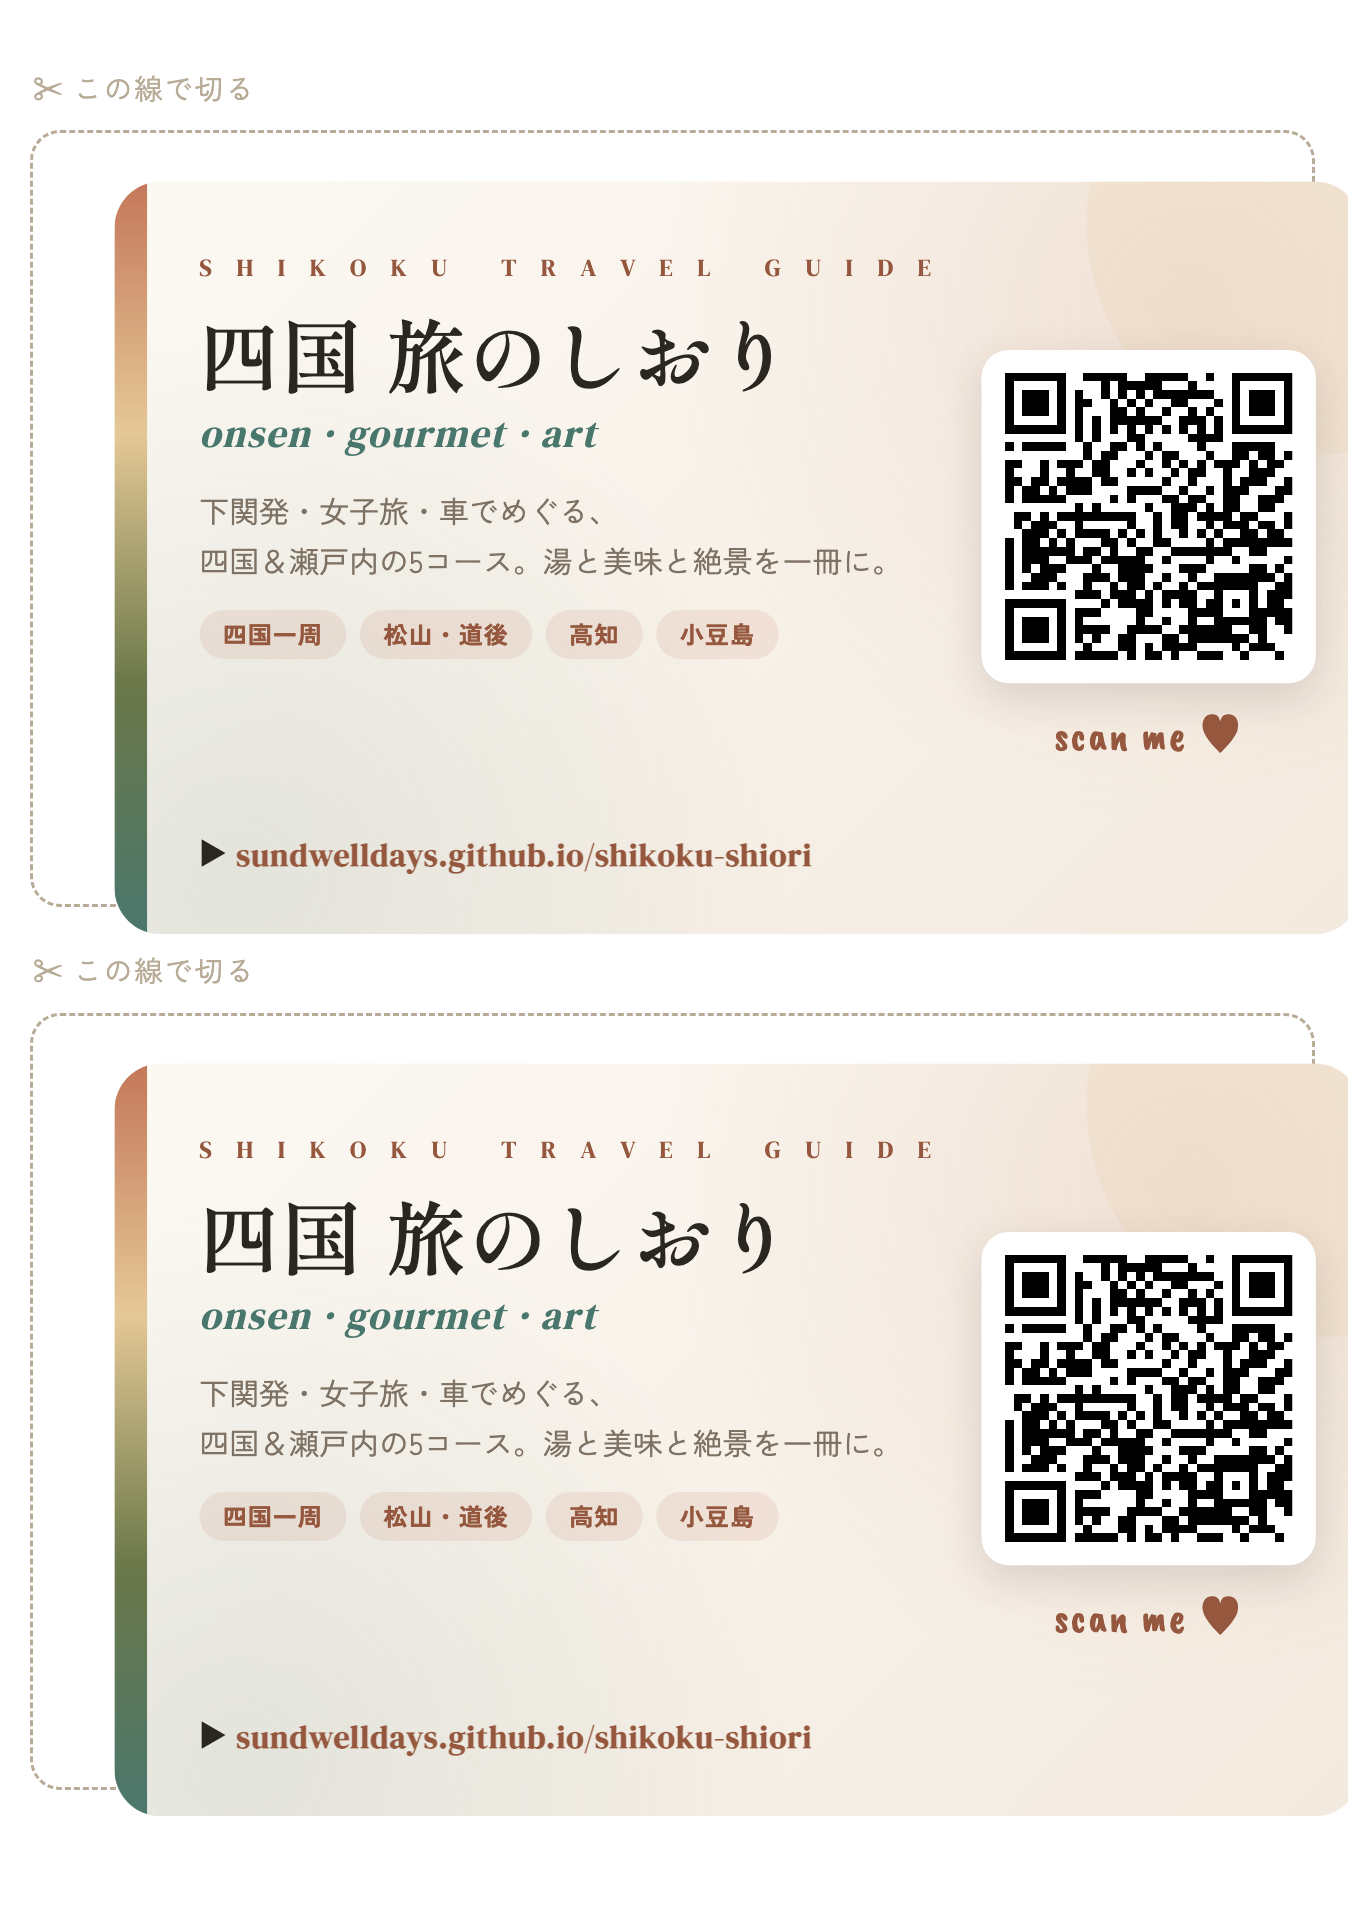
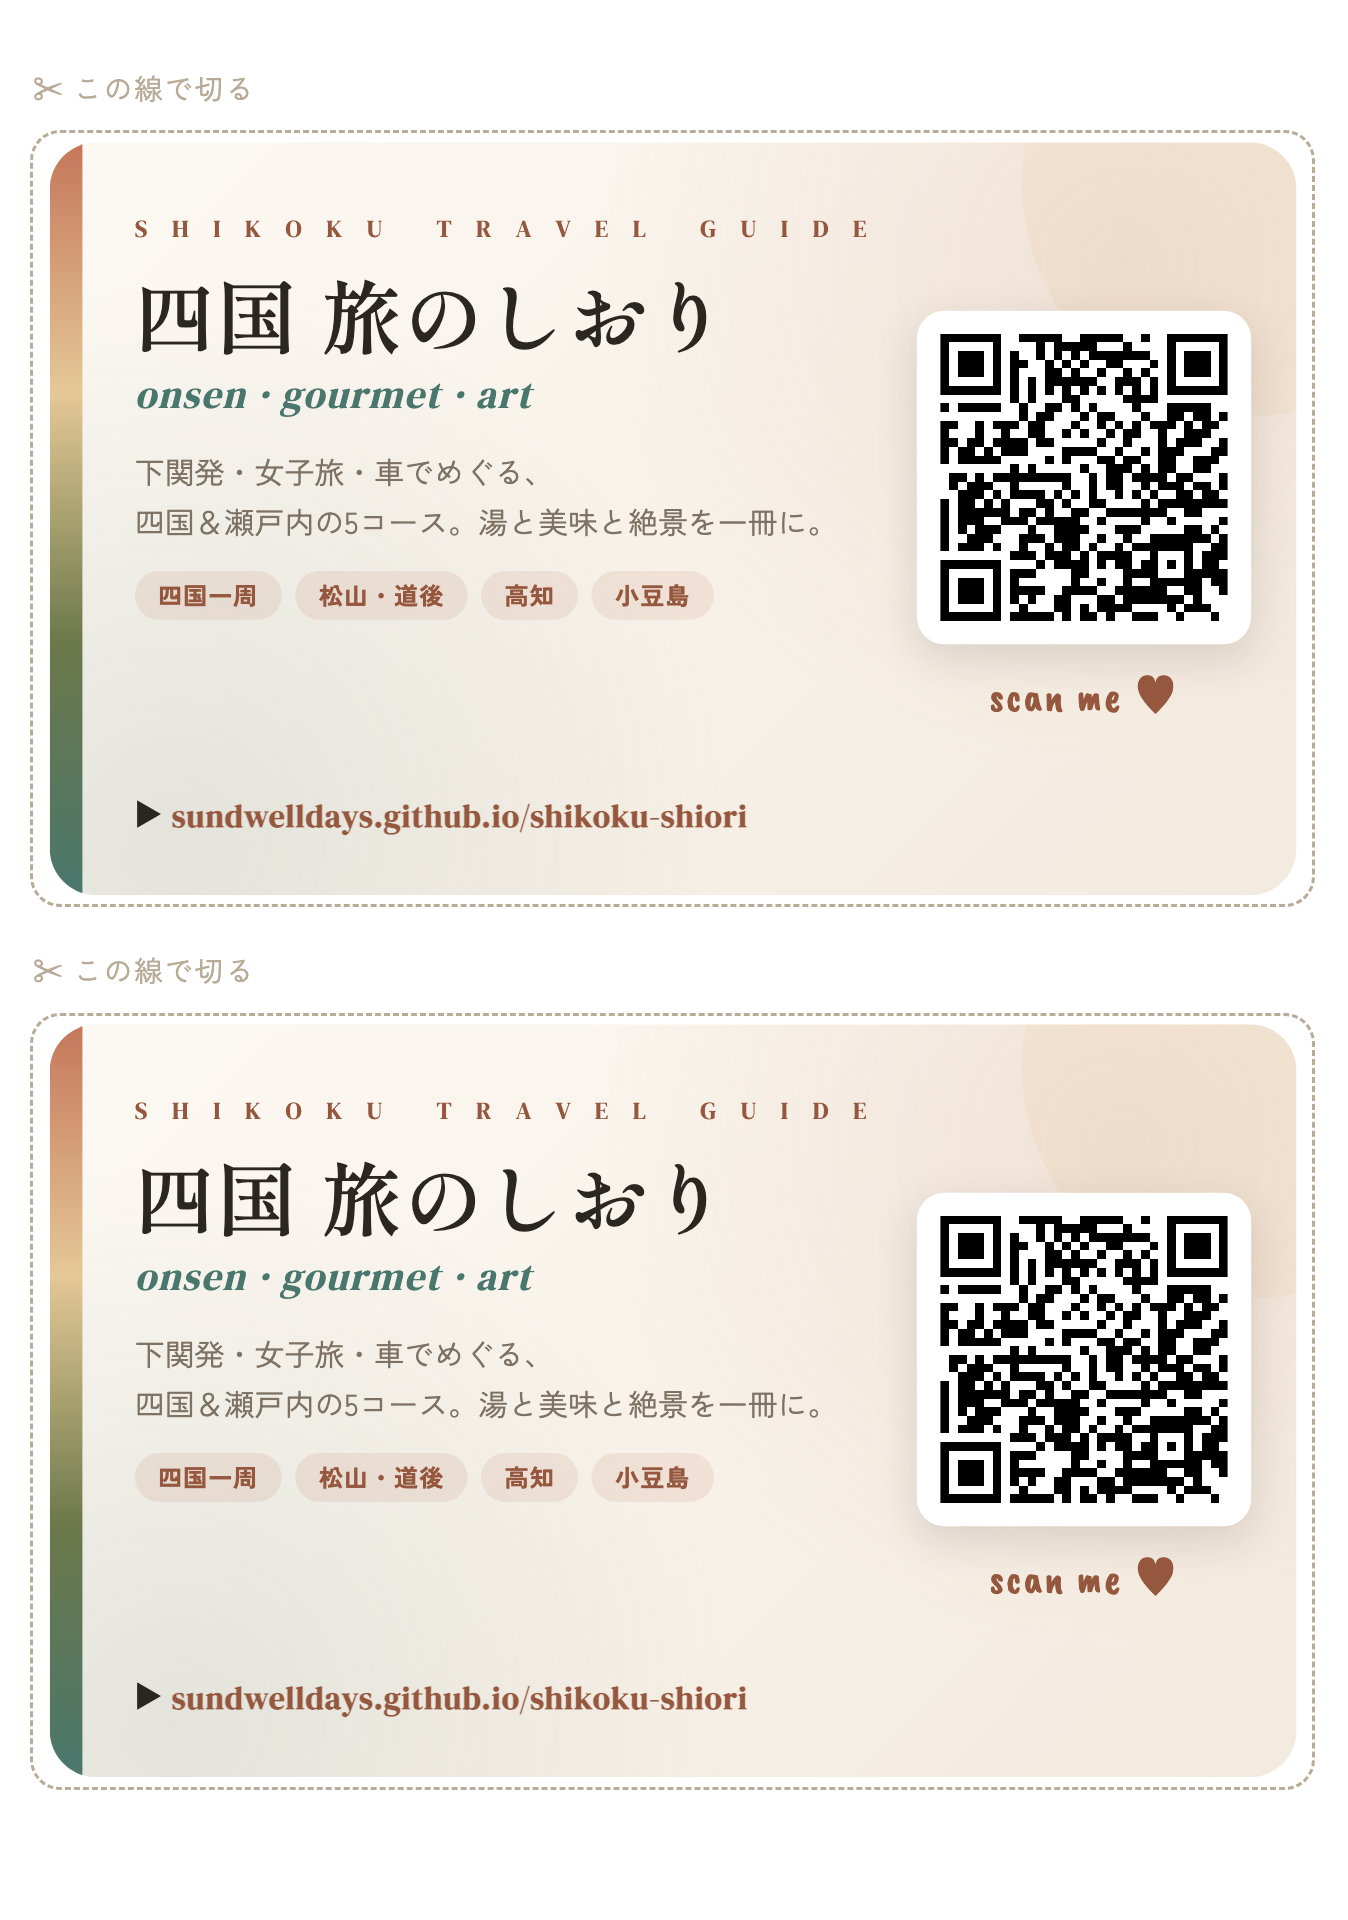
Fix cut-line misalignment on L判 card (combine translate+scale into one transform)

diff --git a/card_seven.html b/card_seven.html
@@ -19,9 +19,10 @@ html,body{background:#fff;}
 .cut{position:absolute;top:-4.4mm;left:0;font-size:5.4pt;letter-spacing:.3pt;color:var(--guide);font-family:'Zen Kaku Gothic New',sans-serif;}
 
 /* Card face — same look as card.html, centered inside the trim box with a hair of gutter. */
-.card{position:absolute;top:50%;left:50%;transform:translate(-50%,-50%);width:91mm;height:55mm;
-  /* visually scaled to ~82.5mm wide so a ~1.2mm white gutter sits inside the cut line */
-  scale:.906;
+.card{position:absolute;top:50%;left:50%;width:91mm;height:55mm;
+  /* center in the trim box and visually scale to ~82.5mm wide so a ~1.2mm white gutter sits inside the cut line.
+     translate + scale MUST be one transform (a separate scale property composes in a different order and offsets the card). */
+  transform:translate(-50%,-50%) scale(.906);transform-origin:center;
   overflow:hidden;border-radius:3.4mm;display:flex;align-items:stretch;
   background:
     radial-gradient(circle at 86% 16%, rgba(196,119,90,.12), transparent 42%),

diff --git a/tools/generate_seven_card.js b/tools/generate_seven_card.js
@@ -53,9 +53,10 @@ html,body{background:#fff;}
 .cut{position:absolute;top:-4.4mm;left:0;font-size:5.4pt;letter-spacing:.3pt;color:var(--guide);font-family:'Zen Kaku Gothic New',sans-serif;}
 
 /* Card face — same look as card.html, centered inside the trim box with a hair of gutter. */
-.card{position:absolute;top:50%;left:50%;transform:translate(-50%,-50%);width:91mm;height:55mm;
-  /* visually scaled to ~82.5mm wide so a ~1.2mm white gutter sits inside the cut line */
-  scale:.906;
+.card{position:absolute;top:50%;left:50%;width:91mm;height:55mm;
+  /* center in the trim box and visually scale to ~82.5mm wide so a ~1.2mm white gutter sits inside the cut line.
+     translate + scale MUST be one transform (a separate scale property composes in a different order and offsets the card). */
+  transform:translate(-50%,-50%) scale(.906);transform-origin:center;
   overflow:hidden;border-radius:3.4mm;display:flex;align-items:stretch;
   background:
     radial-gradient(circle at 86% 16%, rgba(196,119,90,.12), transparent 42%),
